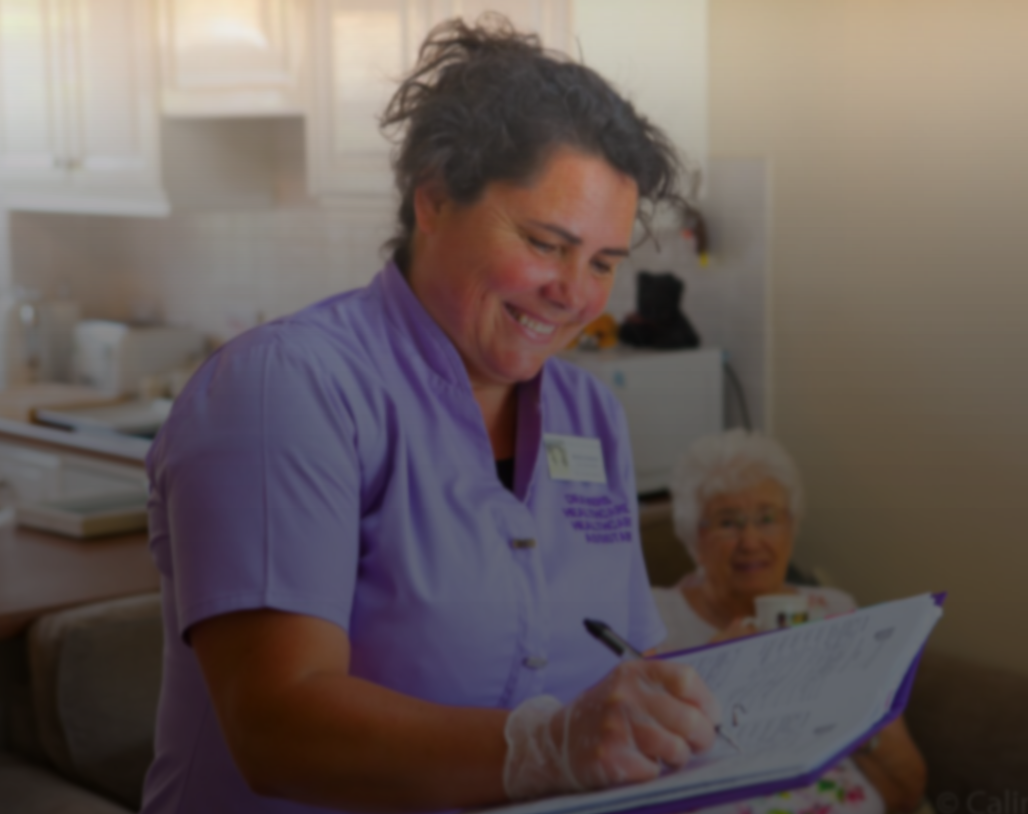
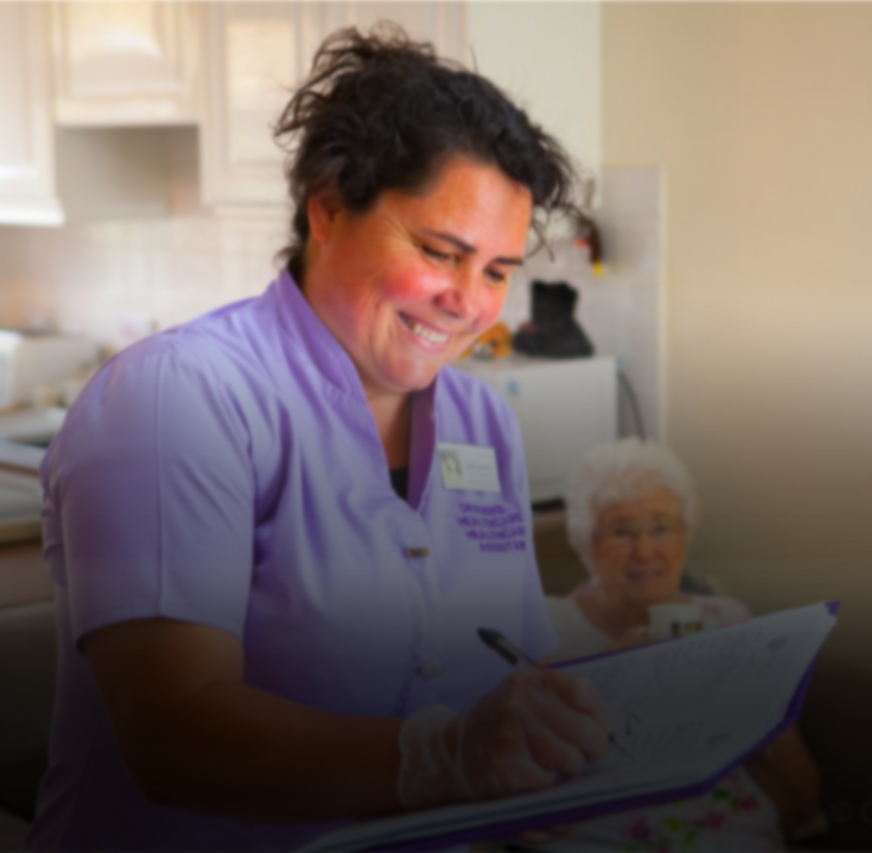
inital commit

diff --git a/src/containers/AuthScreen/index.js b/src/containers/AuthScreen/index.js
@@ -101,7 +101,7 @@ export default class AuthScreen extends Component {
         <ImageBackground
           source={{
             uri:
-              "https://res.cloudinary.com/chawanangwa/image/upload/v1576559516/66639018_654296765039057_8177279872276627456_n_iweewt.png"
+              "https://res.cloudinary.com/chawanangwa/image/upload/v1576561508/66639018_654296765039057_8177279872276627456_n_eucpzg.png"
           }}
           style={styles.container}
         >
@@ -152,17 +152,13 @@ export default class AuthScreen extends Component {
 const styles = StyleSheet.create({
   container: {
     flex: 1,
-    width: "100%",
-    height: "100%",
-    flexDirection: "column",
-    paddingTop: 24,
     backgroundColor: "#5E1E7C",
     resizeMode: 'cover', // or 'stretch'
   },
   logoImg: {
     flex: 1,
     height: null,
-    marginTop: 150,
+    marginTop: 220,
     width: IMAGE_WIDTH,
     alignSelf: "center",
     resizeMode: "contain",
